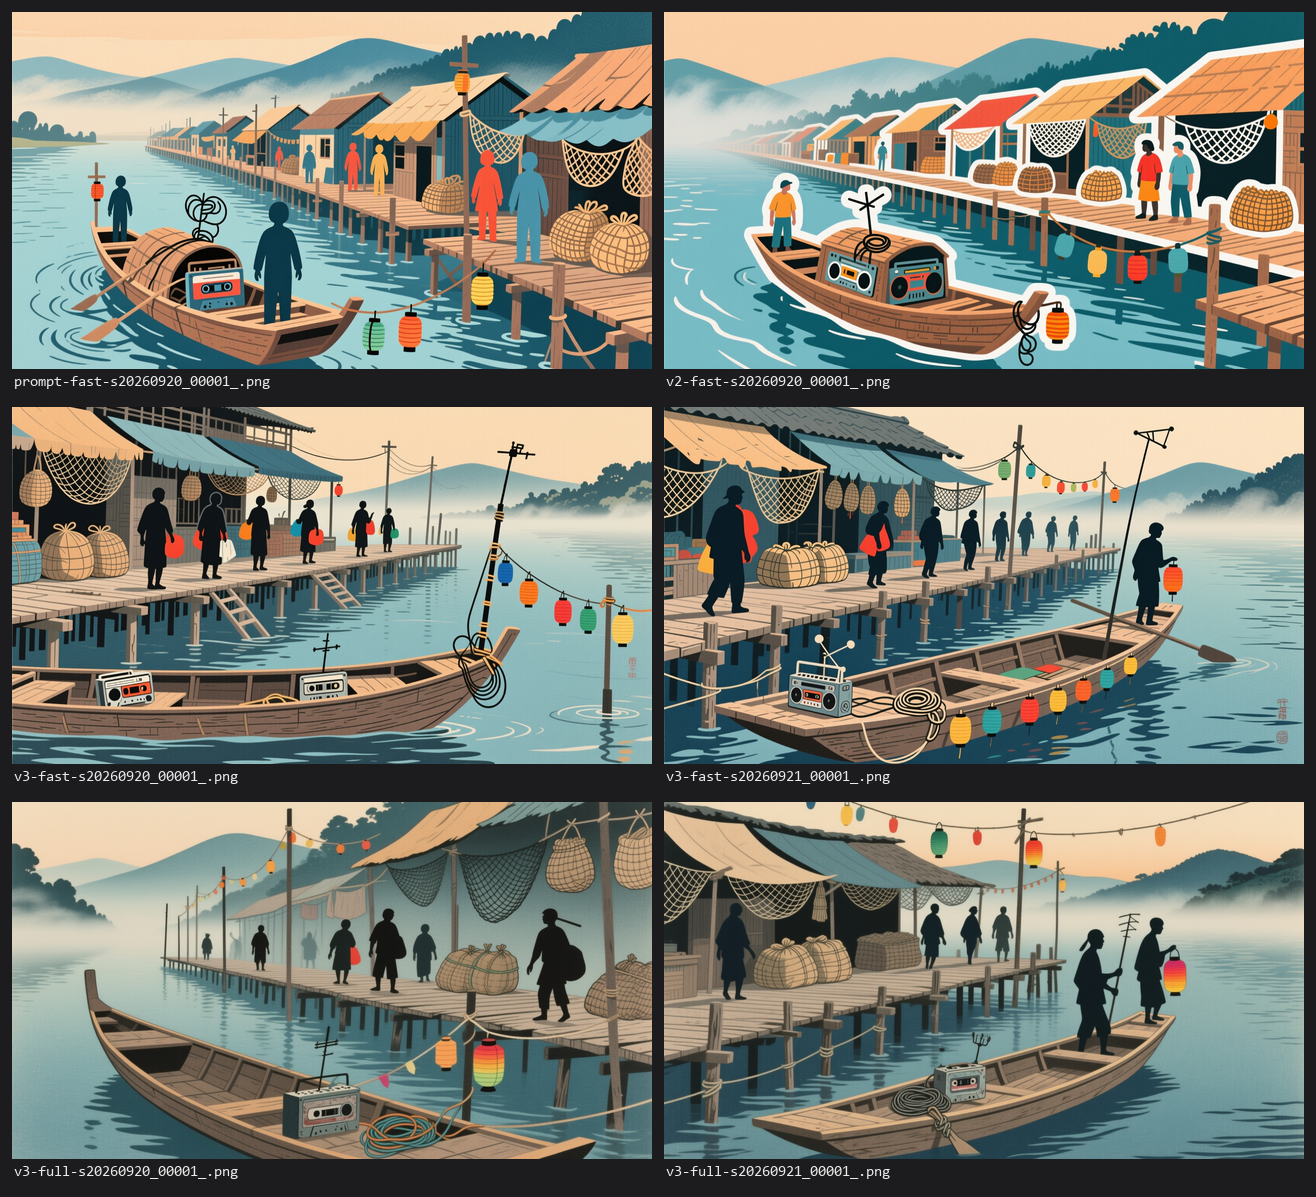
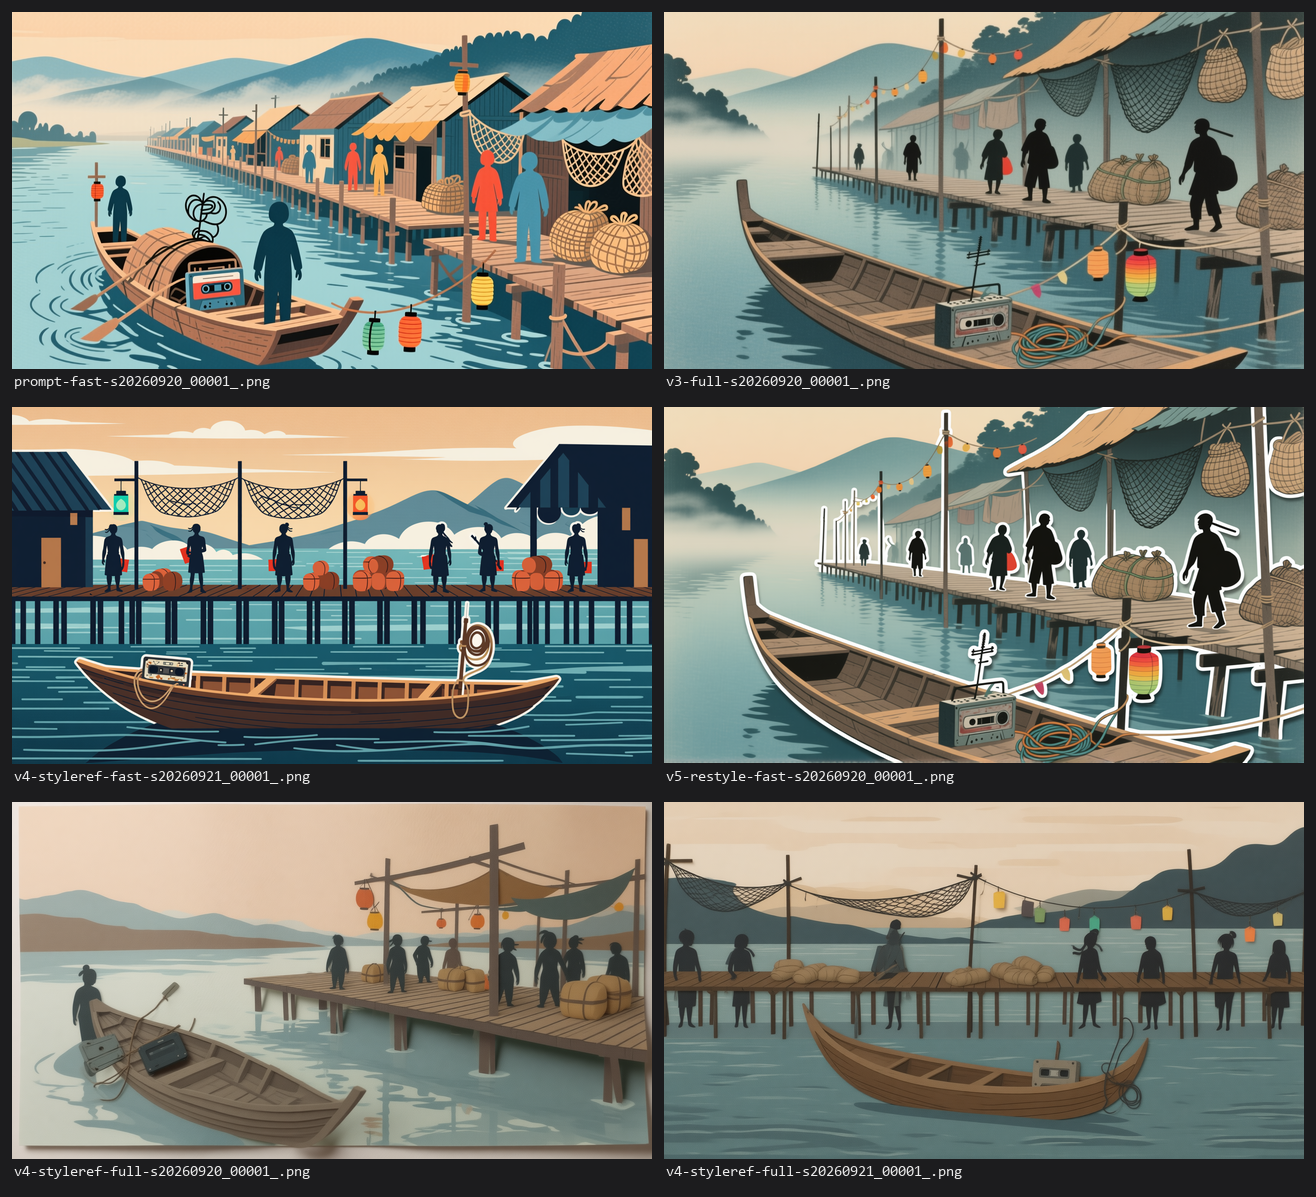
Style reference beats prompt text for cut-paper; closes handoff open #3
The river-nomads board's finding was that layered cut-paper construction
did not move under three prompt rewrites, and that the next attempt
should not be a fourth. Owner said implement it. It works.

tools/gen_styled.py - multi-image conditioning on Qwen-Image-Edit-2509.
TextEncodeQwenImageEditPlus takes image1/image2/image3 and nothing here
had ever passed more than one. Two modes: one style reference with a
fresh latent, or style plus a content reference.

Result, with the project's own smoketest cut-out as the style reference
and nothing downloaded or trained:

  styleref, 20 steps, cfg 4.0 -> actual layered cut paper. Paper grain,
  drop shadows between layers, cut edges, standee figures, and in
  s20260920 the mounting board casting its own shadow. The Paper Mario
  row (D5.19) and pillar 4's diorama grammar, produced rather than
  described.

  styleref, 8-step Lightning -> flat parallel layers and a cut edge on
  the foreground only. Fixes the one-point perspective that 14/14
  round-1 frames had, but partial on construction. 20 steps wins
  outright here; round 1's step-count trade does not survive.

  restyle (style + content ref) -> keeps composition exactly, then
  wraps every element in the same sticker halo the v2 prompt produced,
  and downscales to the shared 1.0 MP budget (1368x760 from 1664x928).
  Use it only when a composition must be kept.

Regression: the style reference carries a palette as well as a
[…]

diff --git a/tools/gen_styled.py b/tools/gen_styled.py
@@ -1,0 +1,185 @@
+#!/usr/bin/env python3
+"""Style-reference generation on Qwen-Image-Edit-2509 (handoff section 8 #3).
+
+The open thread this closes: `TextEncodeQwenImageEditPlus` takes image1/image2/
+image3 and nothing in this repo had ever used more than one. Prompt text alone
+would not produce the layered cut-paper construction the art direction asks for
+(proposals/art/2026-09-20-river-nomads/board.md), so the reference goes in as an
+image instead of as adjectives.
+
+    # new scene, style carried by a reference image
+    python tools/gen_styled.py <board> --style <img> --mode fast
+
+    # restyle an existing frame, composition carried by a second reference
+    python tools/gen_styled.py <board> --style <img> --content <img> --mode full
+
+<board> is a folder under proposals/art/ holding the instruction as
+<prompt>.txt and negative.txt, same convention as tools/gen_board.py.
+Reference paths are relative to proposals/art/ or absolute.
+
+Every reference goes through ImageScaleToTotalPixels so the inputs share one
+pixel budget -- the documented multi-image tip; unequal budgets are reported to
+destabilise composition. Official guidance is 1-3 references, no more.
+"""
+from __future__ import annotations
+
+import argparse
+import json
+import os
+import shutil
+import sys
+import time
+import urllib.error
+import urllib.request
+from pathlib import Path
+
+ART = Path(__file__).resolve().parents[1] / "proposals" / "art"
+COMFY = Path(os.environ.get("SHINOBI_COMFY_ROOT", r"C:\tools\ComfyUI_windows_portable\ComfyUI"))
+if not COMFY.is_dir():
+    raise SystemExit(
+        "ComfyUI not found at %s.\nImage generation runs on the PC with the RTX 5090 "
+        "and nowhere else. Set SHINOBI_COMFY_ROOT if it is installed elsewhere here." % COMFY)
+INPUT_DIR = COMFY / "input"
+HOST = "http://127.0.0.1:8188"
+
+GGUF = "Qwen-Image-Edit-2509-Q8_0.gguf"
+CLIP = "qwen_2.5_vl_7b_fp8_scaled.safetensors"
+VAE = "qwen_image_vae.safetensors"
+LORA = "Qwen-Image-Edit-2509-Lightning-8steps-V1.0-bf16.safetensors"
+
+SHIFT = 3.0               # the edit template's own default, not the t2i 3.1
+FULL_STEPS, FULL_CFG = 20, 4.0
+FAST_STEPS, FAST_CFG = 8, 1.0
+SAMPLER, SCHEDULER = "euler", "simple"   # never ancestral with a Lightning LoRA
+MEGAPIXELS = 1.0          # shared budget across references
+SIZES = {"1:1": (1328, 1328), "16:9": (1664, 928), "9:16": (928, 1664),
+         "4:3": (1472, 1140), "3:4": (1140, 1472)}
+
+
+def stage(path: Path, tag: str) -> str:
+    """Copy a reference into ComfyUI's input folder under a predictable name."""
+    name = f"styleref-{tag}-{path.stem[:40]}{path.suffix}"
+    shutil.copyfile(path, INPUT_DIR / name)
+    return name
+
+
+def graph(pos: str, neg: str, refs: list, latent: tuple, seed: int,
+          fast: bool, prefix: str) -> dict:
+    """refs[0] is the style reference; refs[1:] are content/character references.
+
+    latent is ("empty", w, h) for a new scene, or ("image", node_id) to take the
+    output size from an already-scaled reference.
+    """
+    steps, cfg = (FAST_STEPS, FAST_CFG) if fast else (FULL_STEPS, FULL_CFG)
+    g = {
+        "1": {"class_type": "UnetLoaderGGUF", "inputs": {"unet_name": GGUF}},
+        "2": {"class_type": "CLIPLoader",
+              "inputs": {"clip_name": CLIP, "type": "qwen_image", "device": "default"}},
+        "3": {"class_type": "VAELoader", "inputs": {"vae_name": VAE}},
+    }
+    enc = {"clip": ["2", 0], "vae": ["3", 0]}
+    for i, name in enumerate(refs, start=1):
+        load, scale = f"10{i}", f"11{i}"
+        g[load] = {"class_type": "LoadImage", "inputs": {"image": name}}
+        g[scale] = {"class_type": "ImageScaleToTotalPixels",
+                    "inputs": {"image": [load, 0], "upscale_method": "lanczos",
+                               "megapixels": MEGAPIXELS, "resolution_steps": 1}}
+        enc[f"image{i}"] = [scale, 0]
+
+    g["6"] = {"class_type": "TextEncodeQwenImageEditPlus", "inputs": dict(enc, prompt=pos)}
+    g["7"] = {"class_type": "TextEncodeQwenImageEditPlus", "inputs": dict(enc, prompt=neg)}
+
+    if latent[0] == "empty":
+        g["8"] = {"class_type": "EmptySD3LatentImage",
+                  "inputs": {"width": latent[1], "height": latent[2], "batch_size": 1}}
+    else:
+        g["8"] = {"class_type": "VAEEncode",
+                  "inputs": {"pixels": [latent[1], 0], "vae": ["3", 0]}}
+
+    g["4"] = {"class_type": "ModelSamplingAuraFlow",
+              "inputs": {"model": ["12", 0] if fast else ["1", 0], "shift": SHIFT}}
+    g["5"] = {"class_type": "CFGNorm", "inputs": {"model": ["4", 0], "strength": 1.0}}
+    if fast:
+        g["12"] = {"class_type": "LoraLoaderModelOnly",
+                   "inputs": {"model": ["1", 0], "lora_name": LORA, "strength_model": 1.0}}
+    g["9"] = {"class_type": "KSampler",
+              "inputs": {"model": ["5", 0], "positive": ["6", 0], "negative": ["7", 0],
+                         "latent_image": ["8", 0], "seed": seed, "steps": steps, "cfg": cfg,
+                         "sampler_name": SAMPLER, "scheduler": SCHEDULER, "denoise": 1.0}}
+    g["13"] = {"class_type": "VAEDecode", "inputs": {"samples": ["9", 0], "vae": ["3", 0]}}
+    g["14"] = {"class_type": "SaveImage",
+               "inputs": {"images": ["13", 0], "filename_prefix": prefix}}
+    return g
+
+
+def submit(g: dict) -> str:
+    req = urllib.request.Request(HOST + "/prompt", data=json.dumps({"prompt": g}).encode(),
+                                 headers={"Content-Type": "application/json"})
+    try:
+        return json.load(urllib.request.urlopen(req))["prompt_id"]
+    except urllib.error.HTTPError as e:
+        sys.exit("ComfyUI rejected the graph: " + e.read().decode()[:900])
+
+
+def wait(pid: str, timeout: int = 1800) -> list:
+    start = time.time()
+    while time.time() - start < timeout:
+        h = json.load(urllib.request.urlopen(f"{HOST}/history/{pid}"))
+        if pid in h:
+            st = h[pid].get("status", {})
+            if st.get("status_str") == "error":
+                sys.exit("execution failed: " + json.dumps(st)[:900])
+            names = [i["filename"] for n in h[pid].get("outputs", {}).values()
+                     for i in n.get("images", [])]
+            return names + [f"{time.time() - start:.0f}s"]
+        time.sleep(3)
+    sys.exit("timed out waiting for ComfyUI")
+
+
+def resolve(p: str) -> Path:
+    q = Path(p)
+    q = q if q.is_absolute() else ART / p
+    if not q.exists():
+        sys.exit(f"no such reference: {q}")
+    return q
+
+
+def main():
+    ap = argparse.ArgumentParser()
+    ap.add_argument("topic")
+    ap.add_argument("--style", required=True, help="the style reference (image1)")
+    ap.add_argument("--content", help="composition/character reference (image2); "
+                                      "also sets the output size")
+    ap.add_argument("--prompt", default="prompt", help="<name>.txt in the board folder")
+    ap.add_argument("--mode", choices=("fast", "full"), default="fast")
+    ap.add_argument("--seeds", type=int, default=2)
+    ap.add_argument("--seed0", type=int, default=20260920)
+    ap.add_argument("--aspect", choices=sorted(SIZES), default="16:9")
+    ap.add_argument("--tag", default="", help="extra label in the output filename")
+    args = ap.parse_args()
+
+    folder = ART / args.topic
+    pos = (folder / f"{args.prompt}.txt").read_text(encoding="utf-8").strip()
+    negf = folder / f"negative-{args.prompt}.txt"
+    neg = (negf if negf.exists() else folder / "negative.txt").read_text(encoding="utf-8").strip()
+
+    refs = [stage(resolve(args.style), "style")]
+    if args.content:
+        refs.append(stage(resolve(args.content), "content"))
+        latent = ("image", "112")      # the scaled second reference (node 11<i>, i=2)
+    else:
+        latent = ("empty",) + SIZES[args.aspect]
+
+    label = args.tag or ("restyle" if args.content else "styleref")
+    pids = []
+    for i in range(args.seeds):
+        seed = args.seed0 + i
+        prefix = f"{args.topic}/{args.prompt}-{label}-{args.mode}-s{seed}"
+        pids.append((seed, submit(graph(pos, neg, refs, latent, seed, args.mode == "fast", prefix))))
+    print(f"queued {len(pids)} x {label}/{args.mode}, {len(refs)} reference(s)", flush=True)
+    for seed, pid in pids:
+        print(f"  seed {seed}: {' '.join(wait(pid))}", flush=True)
+
+
+if __name__ == "__main__":
+    main()

diff --git a/proposals/art/2026-09-20-river-nomads/board.md b/proposals/art/2026-09-20-river-nomads/board.md
@@ -103,3 +103,88 @@ attempt at cut-paper should not be another prompt rewrite.
 2. If cut-paper is wanted from this pipeline, test the style-reference path (handoff §8 #3) before
    spending more prompt iterations.
 3. Nothing in `design/` changes off this board.
+
+---
+
+# Round 2 — style reference instead of style adjectives
+
+**Implements** the proposed change from the Next actions above and closes handoff open thread #3
+(`proposals/2026-09-20-local-imagegen-handoff.md` §8): `TextEncodeQwenImageEditPlus` takes
+image1/image2/image3 and nothing in this repo had ever passed more than one. Run by
+`tools/gen_styled.py` on Qwen-Image-Edit-2509. Every reference goes through
+`ImageScaleToTotalPixels` at 1.0 MP so the inputs share a pixel budget, per the documented tip.
+
+**Style reference:** `2026-09-20-smoketest/qwen-smoketest_00001_.png` — the project's own cut-paper
+figure, the image the style card was distilled from. Nothing new was downloaded or trained.
+
+| Mode | Inputs | Prompt | Frames |
+|---|---|---|---|
+| `styleref` | style ref only, fresh latent at 1664×928 | `v4.txt` | `v4-styleref-fast-s2026092[01]`, `v4-styleref-full-s2026092[01]` |
+| `restyle` | style ref + the best round-1 frame as image2 | `v5.txt` | `v5-restyle-fast-s2026092[01]` |
+
+## Result: the style reference moved what three prompt rewrites could not
+
+| Axis | round 1, prompt only | round 2, `styleref` | |
+|---|---|---|---|
+| composition | one-point perspective in 14/14 frames | **flat parallel layers, side on, no vanishing point** | fixed |
+| line | no cut edge, or a sticker halo | **a true white cut edge on the boat and dock** | mostly fixed |
+| silhouette | held in v3 | holds — standees with one accent each | held |
+| palette | muted indigo/ochre | **drifts warm** — the reference's off-white ground bleeds into the sky | regressed |
+| shading | flat | flat | held |
+| paper layering | absent | **partial at 8 steps** — foreground gets a cut edge, water and sky stay flat vector | see below |
+
+### At 20 steps / cfg 4.0 it stops being partial
+
+`v4-styleref-full-s20260920` and `-s20260921` are **actual layered cut paper**: paper grain in every
+shape, real drop shadows between layers, cut edges throughout, and in s20260920 the paper board the
+whole scene is mounted on, casting its own shadow. Figures are paper standees. Hills are flat paper
+bands. This is the **Paper Mario** row (cut-out material, layered flat sets, D5.19) and pillar 4's
+terrain-table → diorama → cut-out grammar, produced rather than described — and s20260920 lands on
+`AGENTS.md`'s own comp, "Paper Mario cut-outs on a wargame table", without being asked for it.
+
+The 8-step Lightning LoRA is the wrong tool for this one. Round 1 found the two step counts split
+the brief between them; with a style reference they do not — 20 steps wins outright, and cheaply
+(57–75 s a frame, warm).
+
+Still wrong in both 20-step frames: the palette is warm tan, not muted indigo/ochre, and the
+one-saturated-accent-per-figure rule is gone — every standee is the same dark grey. Both are
+palette, and both are what the style reference overrode.
+
+Round 1's conclusion was that cut-paper "did not move under prompting". It moves under a reference
+image. That is the finding: the construction half of the art direction is carried by an image input,
+not by adjectives — which is what `01-pillars.md` implies anyway, since the Paper Mario row names a
+*material*, and materials are shown, not described.
+
+## `restyle` mode is not the one to use
+
+Feeding the round-1 frame as image2 preserved its composition exactly and then wrapped every element
+in the same **sticker halo** the v2 prompt produced — an outline around a cluster, not a cut edge on
+a shape. It also came back at **1368×760 instead of 1664×928**: the 1.0 MP budget on the content
+reference sets the output size. Same failure the handoff records for full-image edits, reached by a
+different route. Both seeds are near-identical, so the content reference also flattens seed variety.
+
+Use `styleref` (one reference, fresh latent) for new work. `restyle` earns its place only when an
+existing composition must be kept, and then the output is smaller than the input.
+
+## Carried over unfixed from round 1
+
+- The cassette deck still renders as a recognizable 1980s object — now a bare cassette tape lying in
+  the boat. Anachronism ceiling (Naruto row) and pillar 5 both still say "vaguely recognizable", and
+  four negative-prompt terms have not shifted it. Next lever is an image reference for the prop, not
+  more words.
+- Palette control got *worse* with a style reference, because the reference carries a palette as
+  well as a construction. Separating them — construction from image, palette from prompt — is the
+  next experiment, and the obvious version is a second reference that is a palette swatch.
+
+## Next actions (round 2)
+1. Art lead: this is the first board on disk that answers the Paper Mario row. Accept
+   `v4-styleref-full-s20260920` as the **construction** reference for the cut-paper register even if
+   the palette is returned — the two are now separable levers.
+2. Palette is the open lever. Next experiment is a second reference carrying palette only
+   (a swatch or a round-1 frame), construction from the smoketest figure, palette from image2.
+   One run, four frames.
+3. The cluster this unblocks is `cutouts-m1` (Kaede, Genzo × 2 poses each,
+   `leads/direction/art.md`), which is MVP and has been waiting on exactly this. A character
+   reference plus the style reference is the same two-image call, now known to work.
+4. Do not use 8-step Lightning for a cut-paper board. 20 steps at cfg 4.0, ~60 s a frame.
+5. Nothing in `design/` changes off this board. River Nomads still has no faction doc.

diff --git a/proposals/2026-09-20-local-imagegen-handoff.md b/proposals/2026-09-20-local-imagegen-handoff.md
@@ -235,7 +235,15 @@ called a palette "monochromatic" when there was a clear tan note, and claimed
 1. **4-seed A/B of `euler` vs `euler_ancestral`** to settle whether ancestral is
    genuinely better or was one good sample.
 2. **Prose vs keyword-list prompt A/B**, and cfg 2.5 vs 4.0. Four cells, ~5 min.
-3. **Multi-image conditioning is wired but unused.**
+3. ~~**Multi-image conditioning is wired but unused.**~~ **DONE 2026-09-20** — implemented as
+   `tools/gen_styled.py` and run; a style reference produces the layered cut-paper construction that
+   three prompt rewrites could not, and 20 steps at cfg 4.0 beats the 8-step Lightning LoRA outright
+   for it. Feeding a second image as a *content* reference works but wraps everything in a sticker
+   outline and downscales the output to the shared 1.0 MP budget — prefer one reference and a fresh
+   latent. Evidence and the axis-by-axis result:
+   `proposals/art/2026-09-20-river-nomads/board.md` §Round 2. Original note kept below.
+
+   **Multi-image conditioning is wired but unused.**
    `TextEncodeQwenImageEditPlus` takes `image1`/`image2`/`image3`; official
    guidance is 1–3 inputs optimal. Community tip: run each reference through
    `ImageScaleToTotalPixels` so they share a pixel budget — this reportedly
